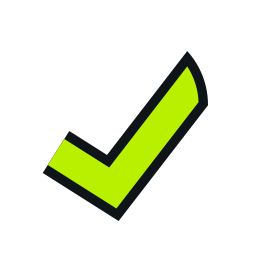
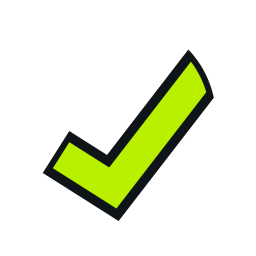
fix(web): Ghostless check left tip outline + right tip flush
Inset the short-arm lime tip so the black knockout forms a full end-cap,
and rebuild the long-arm tip arc on the real ghost dome bezier (right edge
x≈53.8) so the check meets the silhouette with no white gap.

Changed region(s): [[0.7188, 0.2188, 0.8438, 0.4062], [0.1875, 0.5312, 0.2812, 0.6562], [0.7188, 0.1875, 0.75, 0.2188]]

diff --git a/apps/web/components/GhostlessMark.tsx b/apps/web/components/GhostlessMark.tsx
@@ -9,13 +9,13 @@ const SIZE_CLASS: Record<Size, string> = {
 const GHOST_PATH =
   "M32 6c-11.2 0-20 8.6-20 20.2v22.1c0 2.4 2.7 3.7 4.6 2.2l4.1-3.2c1.7-1.3 4.1-1.3 5.8 0l3.5 2.7c1.7 1.3 4.1 1.3 5.8 0l3.5-2.7c1.7-1.3 4.1-1.3 5.8 0l4.1 3.2c1.9 1.5 4.6.2 4.6-2.2V26.2C52 14.6 43.2 6 32 6z";
 
-/** Dark knockout / outline under the lime check (wider; tip on dome). */
+/** Dark knockout / outline under the lime check (wider; tip on real ghost dome). */
 const CHECK_DARK_PATH =
-  "M10.68 43.24L29.65 55.26L52.00 26.32L51.97 25.09L51.86 23.85L51.68 22.63L51.42 21.42L51.09 20.22L50.68 19.05L50.20 17.91L49.65 16.80L49.04 15.73L48.36 14.69L47.61 13.70L46.81 12.76L26.75 38.74L17.32 32.76Z";
+  "M10.68 43.24L29.65 55.26L53.46 24.42L53.25 23.54L53.01 22.67L52.75 21.82L52.46 20.99L52.14 20.17L51.79 19.37L51.43 18.58L51.03 17.82L50.62 17.07L50.18 16.34L49.72 15.63L49.23 14.94L48.72 14.27L48.20 13.62L47.65 12.99L47.08 12.39L26.75 38.74L17.32 32.76Z";
 
-/** Bold lime check — tip inset from dome so black rim wraps all edges. */
+/** Bold lime check — short tip axially inset for black end-cap; long tip inset from dome. */
 const CHECK_LIME_PATH =
-  "M11.94 41.25L29.10 52.13L49.64 25.54L49.59 24.75L49.51 23.96L49.39 23.18L49.24 22.41L49.05 21.64L48.83 20.88L48.57 20.13L48.28 19.39L47.96 18.67L47.61 17.96L47.23 17.27L46.81 16.60L27.30 41.87L16.06 34.75Z";
+  "M13.21 42.05L29.10 52.13L51.56 23.05L51.40 22.51L51.22 21.99L51.03 21.47L50.84 20.96L50.63 20.46L50.42 19.96L50.19 19.47L49.95 18.99L49.71 18.51L49.45 18.05L49.18 17.59L48.91 17.14L48.63 16.69L48.33 16.26L48.03 15.83L47.72 15.42L27.30 41.87L17.33 35.55Z";
 
 type MarkProps = {
   className?: string;
@@ -25,7 +25,8 @@ type MarkProps = {
 
 /**
  * Locked Ghostless mark #4: solid white ghost (no eyes) + bold lime check.
- * Tip follows the ghost dome; thin black outline on all visible check edges.
+ * Long tip flush to the real ghost dome bezier; thin black outline on all
+ * visible check edges including the short-arm end-cap.
  */
 export function GhostlessMark({
   className,
